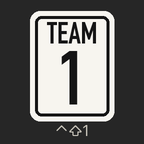
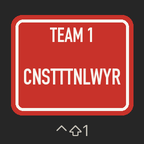
Deck: team buttons show the team names and colours

diff --git a/deck/index.html b/deck/index.html
@@ -19,7 +19,7 @@ kbd { font: 800 13px var(--font); color: #fff; }
 <p>For the VSD Craft deck. Every button sends <b>Ctrl + Shift + a letter or number</b>, which works when the control page <i>or</i> the projector window is in front (same computer). The <b>bottom row is the same on both pages</b> (outlined in yellow), and the page-switch button is in the top-right corner of both.</p>
 <h2>Page 1: main</h2><div class="grid"><figure class=""><img src="go.png" alt="" width="144" height="144"><figcaption><kbd>Ctrl+Shift+G</kbd><span>The next step, whatever it is: show the plate and start the clock, reopen buzzers, show the next answer piece, show the next team's final answer, or go to the next plate.</span></figcaption></figure><figure class=""><img src="correct.png" alt="" width="144" height="144"><figcaption><kbd>Ctrl+Shift+C</kbd><span>Right answer (in the speed round: counts the plate and brings up the next).</span></figcaption></figure><figure class=""><img src="wrong.png" alt="" width="144" height="144"><figcaption><kbd>Ctrl+Shift+X</kbd><span>The team that buzzed is wrong.</span></figcaption></figure><figure class=""><img src="reopen.png" alt="" width="144" height="144"><figcaption><kbd>Ctrl+Shift+O</kbd><span>Open buzzers again after a wrong answer.</span></figcaption></figure><figure class=""><img src="speedpage.png" alt="" width="144" height="144"><figcaption><kbd>Page switch</kbd><span>Opens page 2, the speed round. (VSD Craft page switch, not a key.)</span></figcaption></figure><figure class=""><img src="next.png" alt="" width="144" height="144"><figcaption><kbd>Ctrl+Shift+N</kbd><span>Skip straight to the next plate.</span></figcaption></figure><figure class=""><img src="reveal.png" alt="" width="144" height="144"><figcaption><kbd>Ctrl+Shift+R</kbd><span>Show the answer with no points.</span></figcaption></figure><figure class=""><img src="whole.png" alt="" width="144" height="144"><figcaption><kbd>Ctrl+Shift+W</kbd><span>Show the whole answer at once instead of piece by piece.</span></figcaption></figure><figure class=""><img src="double.png" alt="" width="144" height="144"><figcaption><kbd>Ctrl+Shift+D</kbd><span>Double points on or off for the plate that's up.</span></figcaption></figure><figure class=""><img src="tie.png" alt="" width="144" height="144"><figcaption><kbd>Ctrl+Shift+T</kbd><span>Tie-breaker plate (when teams are tied for first).</span></figcaption></figure><figure class="shared"><img src="undo.png" alt="" width="144" height="144"><figcaption><kbd>Ctrl+Shift+U</kbd><span>Take back the last action.</span></figcaption></figure><figure class="shared"><img src="join.png" alt="" width="144" height="144"><figcaption><kbd>Ctrl+Shift+J</kbd><span>Join screen (QR code) on the projector.</span></figcaption></figure><figure class="shared"><img src="final.png" alt="" width="144" height="144"><figcaption><kbd>Ctrl+Shift+F</kbd><span>Start the final wager plate.</span></figcaption></figure><figure class="shared"><img src="lock.png" alt="" width="144" height="144"><figcaption><kbd>Ctrl+Shift+L</kbd><span>Final plate: stop answers now.</span></figcaption></figure><figure class="shared"><img src="standings.png" alt="" width="144" height="144"><figcaption><kbd>Ctrl+Shift+E</kbd><span>Show the final standings.</span></figcaption></figure></div>
 <h2>Page 2: speed round</h2>
-<p>Pick the team, press START, then CORRECT or PASS for each plate. MAIN PAGE goes back.</p><div class="grid"><figure class=""><img src="start.png" alt="" width="144" height="144"><figcaption><kbd>Ctrl+Shift+G</kbd><span>Start the 60 seconds (after picking the team).</span></figcaption></figure><figure class=""><img src="correct.png" alt="" width="144" height="144"><figcaption><kbd>Ctrl+Shift+C</kbd><span>Right answer (in the speed round: counts the plate and brings up the next).</span></figcaption></figure><figure class=""><img src="pass.png" alt="" width="144" height="144"><figcaption><kbd>Ctrl+Shift+P</kbd><span>Skip this plate.</span></figcaption></figure><figure class=""><img src="stopclock.png" alt="" width="144" height="144"><figcaption><kbd>Ctrl+Shift+K</kbd><span>End the speed round early.</span></figcaption></figure><figure class=""><img src="back.png" alt="" width="144" height="144"><figcaption><kbd>Page switch</kbd><span>Back to page 1. (VSD Craft page switch, not a key.)</span></figcaption></figure><figure class=""><img src="team1.png" alt="" width="144" height="144"><figcaption><kbd>Ctrl+Shift+1</kbd><span>Set up the speed round for team 1: the 1st team in the control page's Teams list.</span></figcaption></figure><figure class=""><img src="team2.png" alt="" width="144" height="144"><figcaption><kbd>Ctrl+Shift+2</kbd><span>Set up the speed round for team 2: the 2nd team in the control page's Teams list.</span></figcaption></figure><figure class=""><img src="team3.png" alt="" width="144" height="144"><figcaption><kbd>Ctrl+Shift+3</kbd><span>Set up the speed round for team 3: the 3rd team in the control page's Teams list.</span></figcaption></figure><figure class=""><img src="team4.png" alt="" width="144" height="144"><figcaption><kbd>Ctrl+Shift+4</kbd><span>Set up the speed round for team 4: the 4th team in the control page's Teams list.</span></figcaption></figure><figure class=""><img src="team5.png" alt="" width="144" height="144"><figcaption><kbd>Ctrl+Shift+5</kbd><span>Set up the speed round for team 5: the 5th team in the control page's Teams list.</span></figcaption></figure><figure class="shared"><img src="undo.png" alt="" width="144" height="144"><figcaption><kbd>Ctrl+Shift+U</kbd><span>Take back the last action.</span></figcaption></figure><figure class="shared"><img src="join.png" alt="" width="144" height="144"><figcaption><kbd>Ctrl+Shift+J</kbd><span>Join screen (QR code) on the projector.</span></figcaption></figure><figure class="shared"><img src="final.png" alt="" width="144" height="144"><figcaption><kbd>Ctrl+Shift+F</kbd><span>Start the final wager plate.</span></figcaption></figure><figure class="shared"><img src="lock.png" alt="" width="144" height="144"><figcaption><kbd>Ctrl+Shift+L</kbd><span>Final plate: stop answers now.</span></figcaption></figure><figure class="shared"><img src="standings.png" alt="" width="144" height="144"><figcaption><kbd>Ctrl+Shift+E</kbd><span>Show the final standings.</span></figcaption></figure></div>
+<p>Pick the team, press START, then CORRECT or PASS for each plate. MAIN PAGE goes back.</p><div class="grid"><figure class=""><img src="start.png" alt="" width="144" height="144"><figcaption><kbd>Ctrl+Shift+G</kbd><span>Start the 60 seconds (after picking the team).</span></figcaption></figure><figure class=""><img src="correct.png" alt="" width="144" height="144"><figcaption><kbd>Ctrl+Shift+C</kbd><span>Right answer (in the speed round: counts the plate and brings up the next).</span></figcaption></figure><figure class=""><img src="pass.png" alt="" width="144" height="144"><figcaption><kbd>Ctrl+Shift+P</kbd><span>Skip this plate.</span></figcaption></figure><figure class=""><img src="stopclock.png" alt="" width="144" height="144"><figcaption><kbd>Ctrl+Shift+K</kbd><span>End the speed round early.</span></figcaption></figure><figure class=""><img src="back.png" alt="" width="144" height="144"><figcaption><kbd>Page switch</kbd><span>Back to page 1. (VSD Craft page switch, not a key.)</span></figcaption></figure><figure class=""><img src="team1.png?v=2" alt="" width="144" height="144"><figcaption><kbd>Ctrl+Shift+1</kbd><span>Speed round for CNSTTTNLWYR (team 1, the 1st team in the control page's Teams list).</span></figcaption></figure><figure class=""><img src="team2.png?v=2" alt="" width="144" height="144"><figcaption><kbd>Ctrl+Shift+2</kbd><span>Speed round for SCNCEGY (team 2, the 2nd team in the control page's Teams list).</span></figcaption></figure><figure class=""><img src="team3.png?v=2" alt="" width="144" height="144"><figcaption><kbd>Ctrl+Shift+3</kbd><span>Speed round for GEHLTHCR (team 3, the 3rd team in the control page's Teams list).</span></figcaption></figure><figure class=""><img src="team4.png?v=2" alt="" width="144" height="144"><figcaption><kbd>Ctrl+Shift+4</kbd><span>Speed round for PJMKRNDMR (team 4, the 4th team in the control page's Teams list).</span></figcaption></figure><figure class=""><img src="team5.png?v=2" alt="" width="144" height="144"><figcaption><kbd>Ctrl+Shift+5</kbd><span>Set up the speed round for team 5: the 5th team in the control page's Teams list.</span></figcaption></figure><figure class="shared"><img src="undo.png" alt="" width="144" height="144"><figcaption><kbd>Ctrl+Shift+U</kbd><span>Take back the last action.</span></figcaption></figure><figure class="shared"><img src="join.png" alt="" width="144" height="144"><figcaption><kbd>Ctrl+Shift+J</kbd><span>Join screen (QR code) on the projector.</span></figcaption></figure><figure class="shared"><img src="final.png" alt="" width="144" height="144"><figcaption><kbd>Ctrl+Shift+F</kbd><span>Start the final wager plate.</span></figcaption></figure><figure class="shared"><img src="lock.png" alt="" width="144" height="144"><figcaption><kbd>Ctrl+Shift+L</kbd><span>Final plate: stop answers now.</span></figcaption></figure><figure class="shared"><img src="standings.png" alt="" width="144" height="144"><figcaption><kbd>Ctrl+Shift+E</kbd><span>Show the final standings.</span></figcaption></figure></div>
 <h2>Download</h2>
 <p><a href="layout.png" download>layout.png</a> (page 1) · <a href="layout-speed.png" download>layout-speed.png</a> (page 2)</p>
 <p>Icons: <a href="back.png" download>back.png</a> · <a href="correct.png" download>correct.png</a> · <a href="double.png" download>double.png</a> · <a href="final.png" download>final.png</a> · <a href="go.png" download>go.png</a> · <a href="join.png" download>join.png</a> · <a href="lock.png" download>lock.png</a> · <a href="next.png" download>next.png</a> · <a href="pass.png" download>pass.png</a> · <a href="reopen.png" download>reopen.png</a> · <a href="reveal.png" download>reveal.png</a> · <a href="speedpage.png" download>speedpage.png</a> · <a href="standings.png" download>standings.png</a> · <a href="start.png" download>start.png</a> · <a href="stopclock.png" download>stopclock.png</a> · <a href="team1.png" download>team1.png</a> · <a href="team2.png" download>team2.png</a> · <a href="team3.png" download>team3.png</a> · <a href="team4.png" download>team4.png</a> · <a href="team5.png" download>team5.png</a> · <a href="tie.png" download>tie.png</a> · <a href="undo.png" download>undo.png</a> · <a href="whole.png" download>whole.png</a> · <a href="wrong.png" download>wrong.png</a></p>
